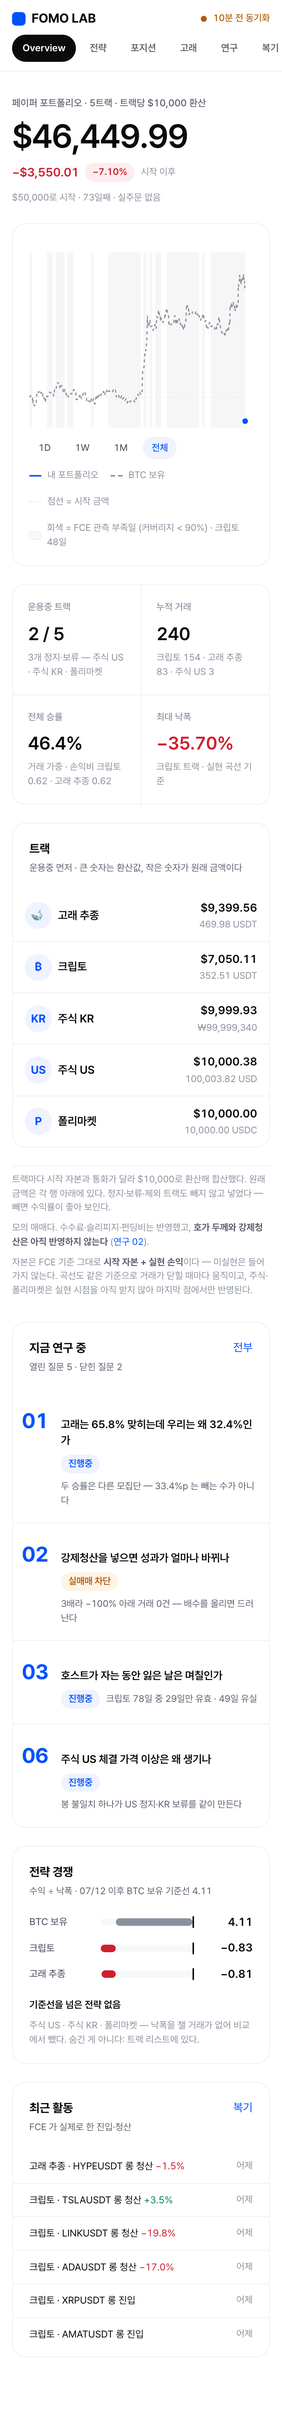
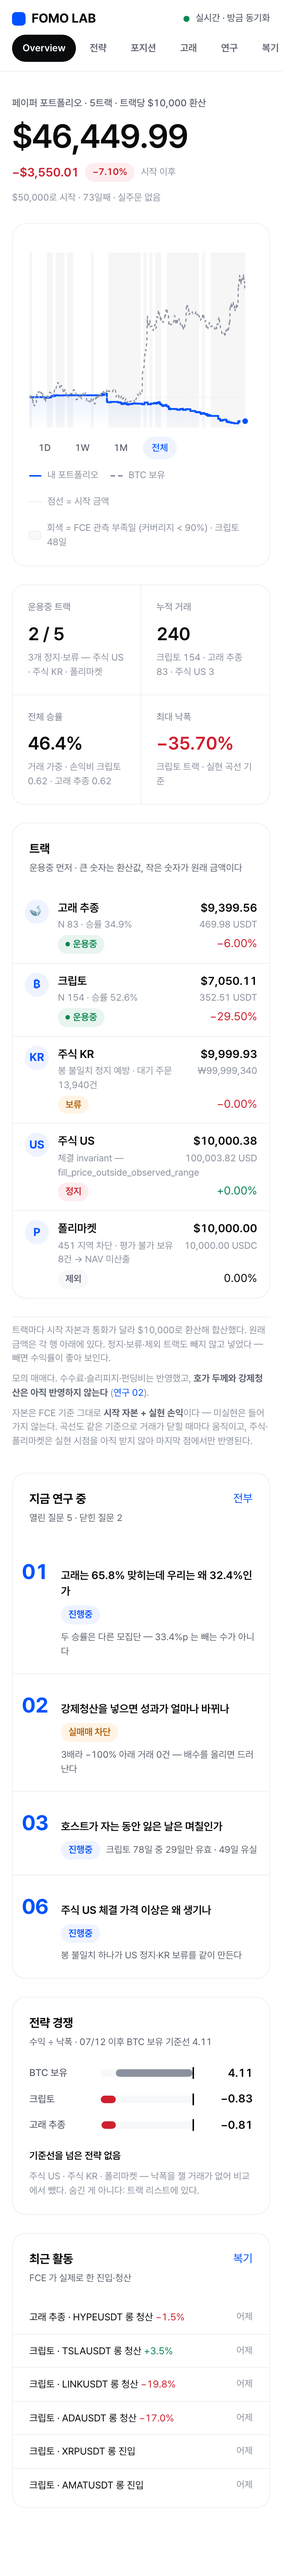
docs(UI-04): Overview 운영 안내와 정규 도메인 스크린샷 (#1284)

diff --git a/docs/ui/OVERVIEW.md b/docs/ui/OVERVIEW.md
@@ -1,0 +1,81 @@
+# UI-04 — Overview
+
+| | |
+|---|---|
+| **근거** | `UI-04` |
+| **완료일** | 2026-09-24 |
+| **화면** | https://fomo-web-mlender-ais-projects.vercel.app/ |
+| **스크린샷** | `docs/ui/screenshots/ui04-overview-*.png` |
+
+---
+
+## 1. 숫자는 전부 한 기준이다 — "시작 자본 + 실현 손익"
+
+FCE 가 다섯 트랙 모두에 이 기준의 자본을 준다(`capital.tracks.*`, `current_capital_basis:
+realized`). 전에는 업로더가 주식은 NAV, 폴리는 `null` 로 따로 올렸다 — 통일했다.
+
+| 트랙 | 출처 |
+|---|---|
+| 크립토 · 주식 US·KR · 폴리마켓 | FCE `capital.tracks` |
+| 고래 추종 | FCE 에 `capital` 블록이 없다 → **같은 정의**를 버킷 `net_usdt` 에 (500 + net) |
+
+## 2. 곡선 — FCE 곡선을 쓰지 않은 이유
+
+FCE 는 `scoreboard.equity_curve.engine` 을 계산해 낸다. 그런데 **검증 창(07-18~) 안의 거래만** 센
+곡선이라 끝이 356.05 이고, 전체 거래 기준 자본은 352.51 이다. 141 vs 146 과 같은 모집단 함정이다.
+
+그래서 **FCE 거래별 순손익을 전부 누적**한다. 곡선 끝이 Hero 와 정확히 같다(테스트가 찌른다).
+고래는 추종 자격(`qualification: follow`) 83건만 — FCE 버킷과 같은 모집단이다.
+
+주식·폴리마켓은 실현 시점을 아직 안 받아 **마지막 점에서만** 반영된다. 금액이 작다(합 +$0.31).
+
+## 3. 선을 끊는 곳과 칠하는 곳 (C-2)
+
+| | 무엇 | 출처 |
+|---|---|---|
+| 회색 띠 | 관측 유실일(커버리지 < 90%) | FCE `/api/system/paper/diagnosis` |
+| 선 끊김 | 값이 정말 없는 곳(BTC 봉 구멍) | 랩 봉 |
+
+크립토 78일 중 49일이 유실일인데 **커버리지 0% 인 날은 0일**이다. 포트폴리오 선은 실현 기준이라
+호스트가 자는 동안에도 값이 확정돼 있다 — 거기서 끊으면 "데이터가 없다" 는 거짓말이 된다.
+
+## 4. 운용중 2 / 5 — 주식 KR 은 보류다
+
+FCE 는 KR 을 `running` 으로 준다. 그러나 설정(`stock_paper_hold_queued_orders`, 기본 켜짐) 때문에
+대기 주문을 안 내보낸다 — 마지막 체결 08-05, 대기 13,940건. FCE 자기 일일 리포트는 이걸 **보류**로
+말한다(`notify/daily_report_source.py`). API 로는 안 나와서 업로더가 같은 쿼리로 FCE DB 를
+**읽기 전용**으로 본다.
+
+## 5. 전략 경쟁 — 같은 기간 · 같은 방법
+
+기준선은 **같은 기간**(07-12~) BTC 보유의 수익 ÷ 낙폭이다. 3년 백테스트의 0.70 을 73일 트랙 옆에
+두면 기간이 다른 두 수를 비교하게 된다. 트랙도 BTC 도 실현 곡선에서 잰다.
+
+| | 수익 | 낙폭 | 수익 ÷ 낙폭 |
+|---|---|---|---|
+| BTC 보유 | +31.66% | −7.71% | **4.11** |
+| 크립토 | −29.50% | −35.70% | −0.83 |
+| 고래 추종 | −6.00% | −7.44% | −0.81 |
+
+## 6. 지어내지 않은 것
+
+| | 왜 |
+|---|---|
+| `MDD 초과` 알약 | FCE 에 한도가 없다 — `mdd_guard.configured: false` |
+| "주식 US · 트랙 정지 · 어제" | FCE 가 정지 시각을 모른다 — `stopped_at_known: false` |
+| 트랙마다 다른 색 | UI-01 이 파랑 하나만. 글자 아이콘 |
+
+## 7. 배포하고 밟은 것
+
+| | |
+|---|---|
+| 툴팁이 한 번도 안 떴다 | Recharts 3 의 `activeTooltipIndex` 가 문자열이었다. 넘겨받는 `payload` 를 쓴다 |
+| 파란 선이 빈 채로 찍혔다 | 그리기 애니메이션이 가려진 창·다시 그리기·크기 변경마다 처음부터 돈다. **끈다** — UI-01 F 와 다르게 간다 |
+| 폰에서 정지 사유가 사라졌다 | 폰에서 부제·상태를 숨기고 있었다. 두 줄로 접는다 |
+
+## 8. 남은 것
+
+| | |
+|---|---|
+| **목표 화면 대조** (완료확인 1) | `UI-target-overview.html` 을 아직 못 받았다 |
+| 헤더가 자주 주황이다 | 업로드가 15분 주기라 5분 임계(UI-02 G)를 자주 넘는다. 주기를 줄이는 것은 UI-06(포지션 30초)와 같이 |
